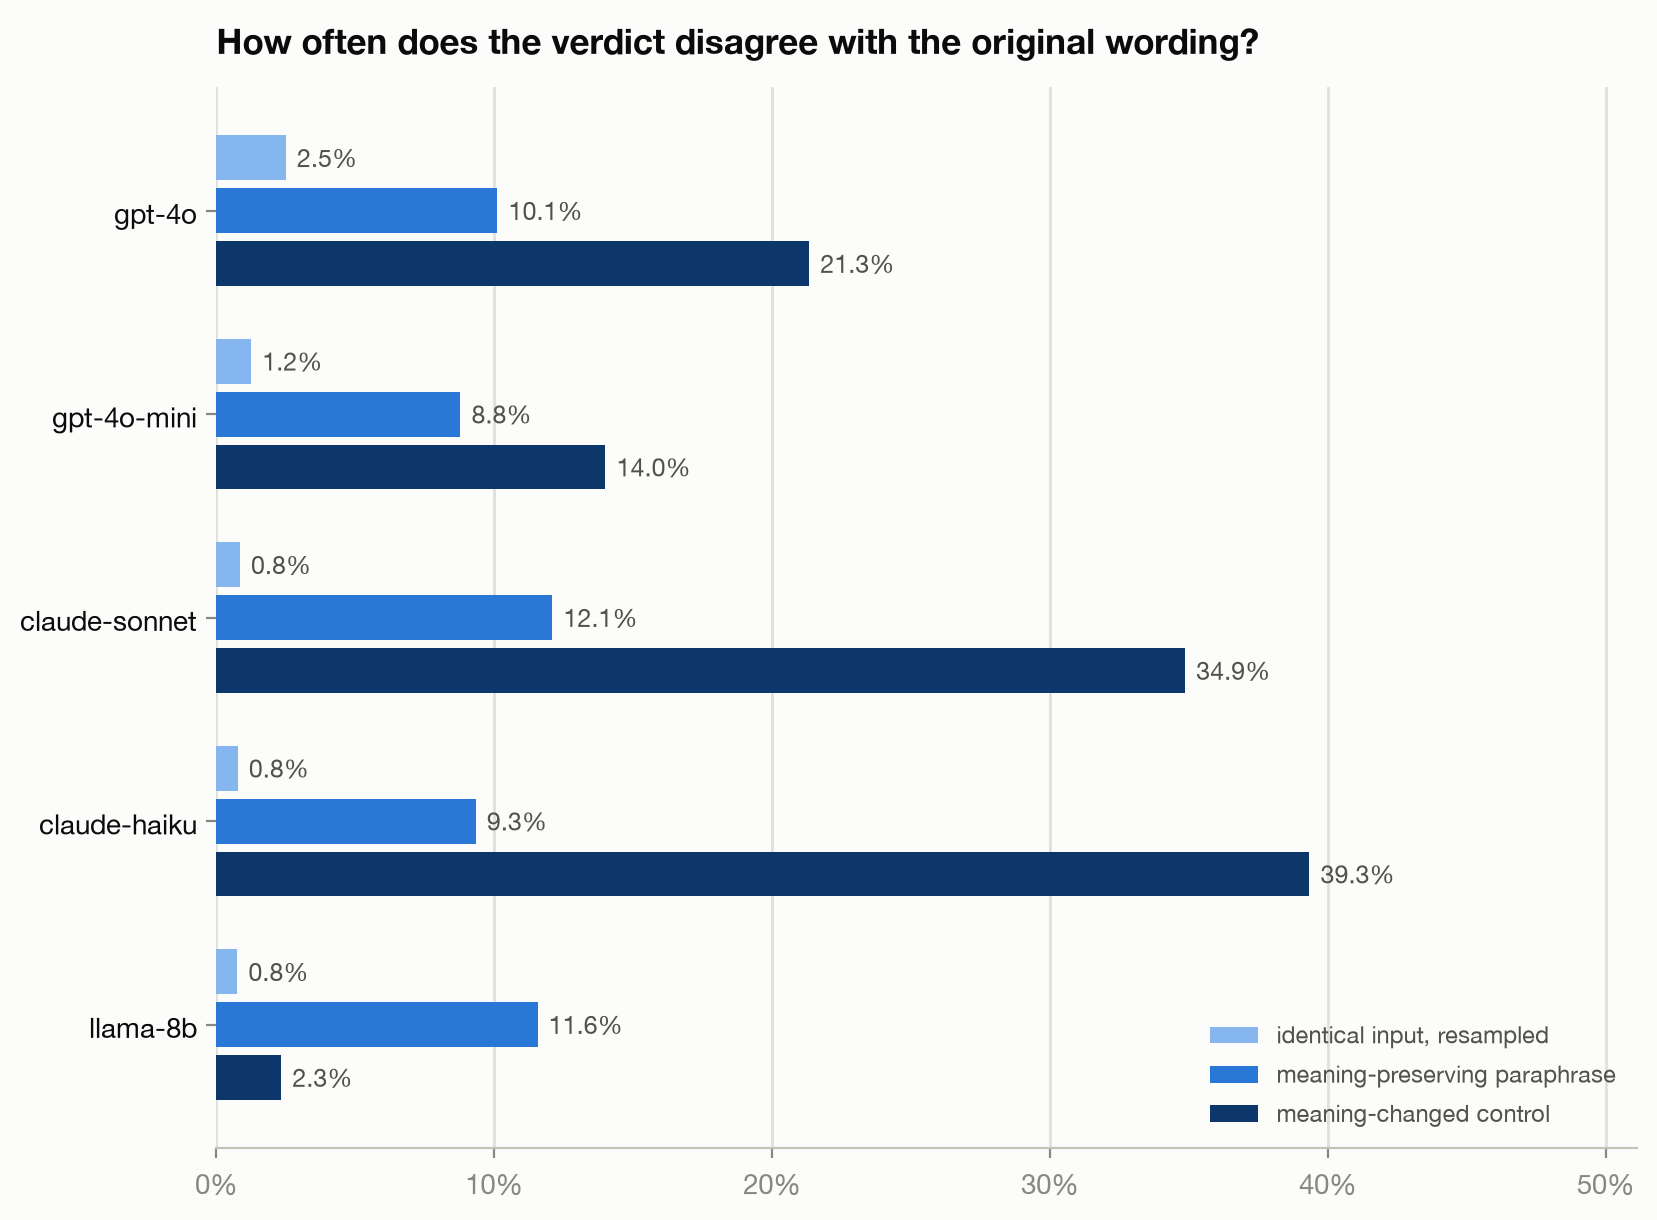
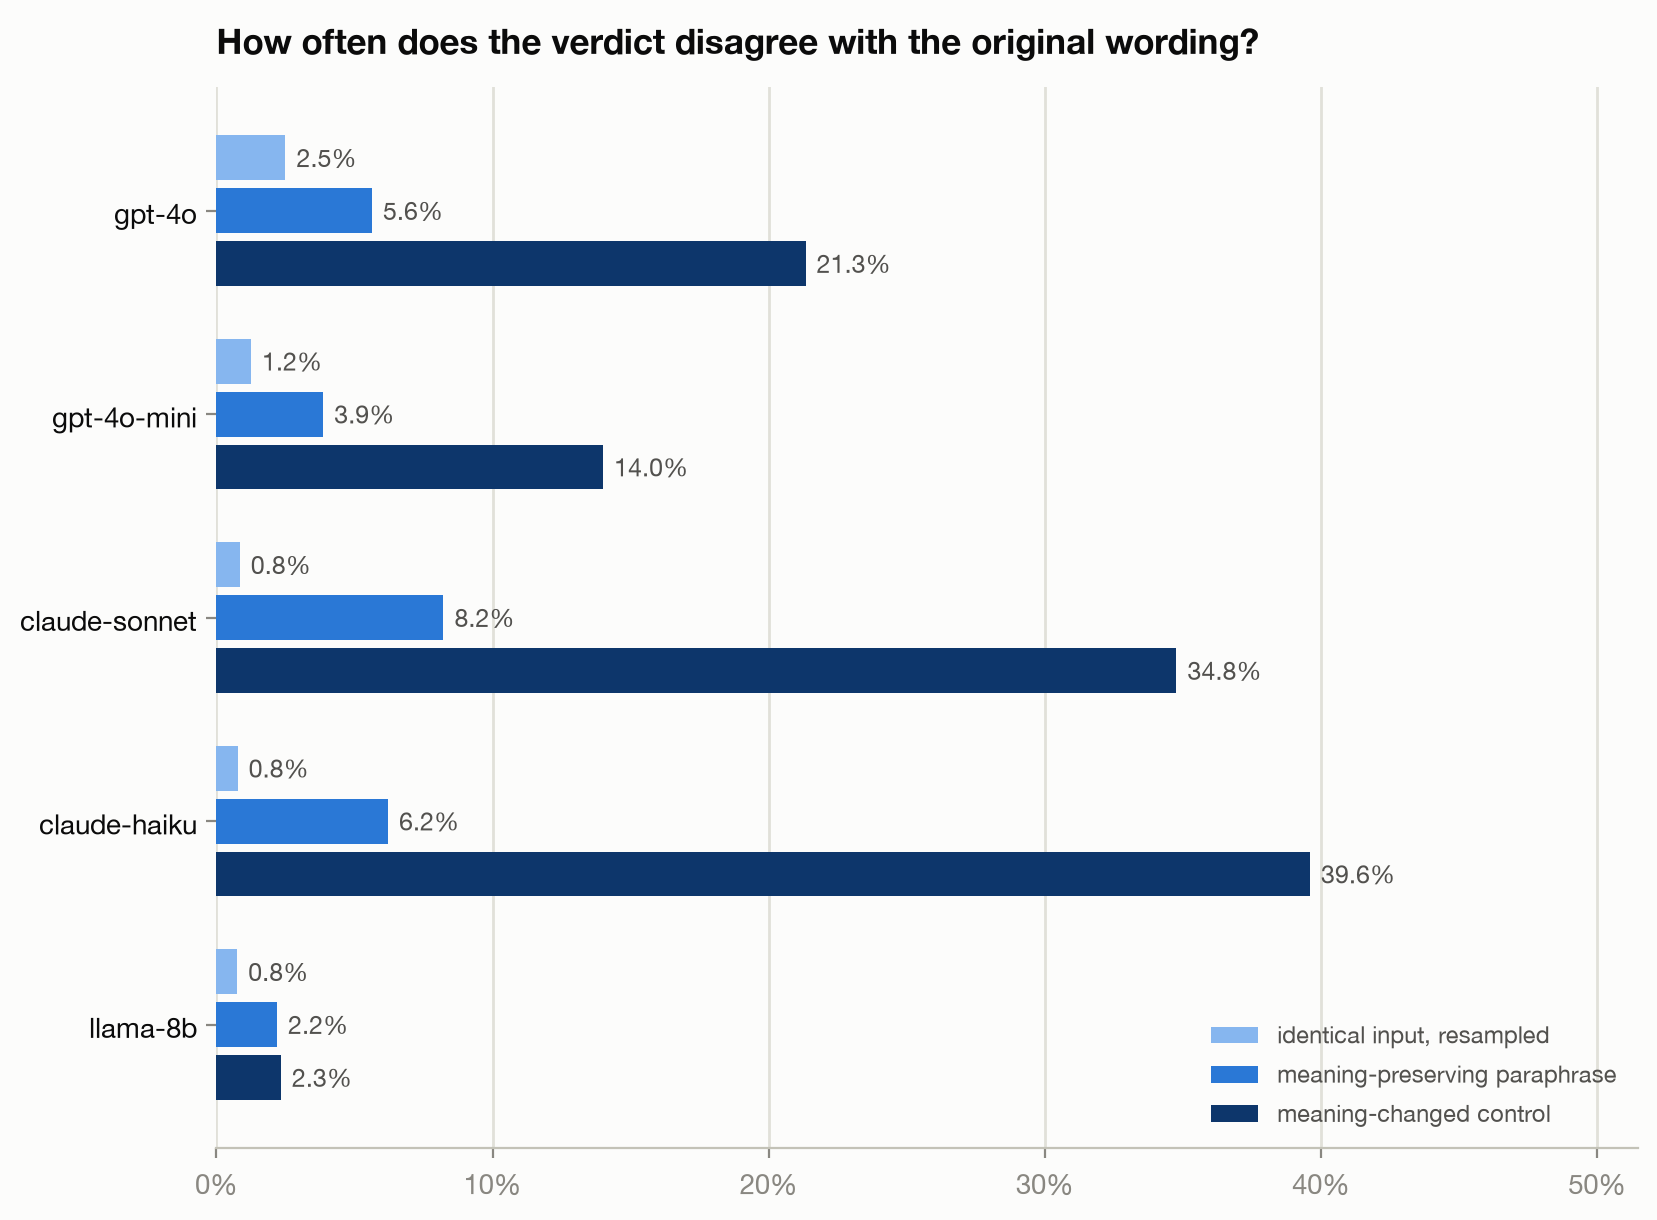
Fix all findings from second (cold, artifact-verifying) adversarial review
1. fig2 NaN bug: missing variant scores were counted as verdict flips,
   inflating per-variant paraphrase bars (llama showed 11.6% instead of
   2.2%, contradicting the insensitivity finding). Fixed and regenerated;
   figure now matches supplementary.json exactly.
2. Rubric claim corrected from the actual bootstrap: harsher for all five
   judges (-0.11 to -0.36) but validity gain is real for claude-sonnet
   (+0.060, CI excludes zero) - 'harsher, not more valid' was false for
   sonnet and cherry-picked the OpenAI shift range.
3. Symmetric multiplicity correction: Holm now applied to the TOST
   equivalence family too; corrected equivalence in 3/10 cells (was
   reported as 7/10 uncorrected next to Holm-corrected difference tests).
4. T=1 noise floor reported (10-24% flips - rivals wording sensitivity;
   headline multiplier explicitly scoped to T=0 operation) + new guidance:
   run judges at T=0.
5. ICC(2,1) 0.74-0.91 and per-item SD now reported with honest framing:
   flaky verdicts atop fairly stable scores near a hard threshold.
6. Stale variance numbers replaced (0.10-0.27 vs 0.003-0.054); 19x ->
   18.3x; E4 per-cell n=71-82 disclosed; sonnet form-type claim fixed;
   2-7x concentration consistent across README/report; spot-check
   reviewer vendor-family overlap disclosed in report, prereg, and
   limitations. Prereg addendum documents this review round.

diff --git a/analysis/supplementary.py b/analysis/supplementary.py
@@ -262,14 +262,20 @@ def main() -> None:
                           "ci": [float(ci[0]), float(ci[1])],
                           "dz": float(dz), "p_wilcoxon": float(p),
                           "p_tost_equiv": float(p_tost)})
-    # Holm correction over the 10 wilcoxon tests
-    ps = sorted(range(len(tests)), key=lambda i: tests[i]["p_wilcoxon"])
-    m = len(tests)
-    running_max = 0.0
-    for rank, i in enumerate(ps):
-        adj = min(1.0, (m - rank) * tests[i]["p_wilcoxon"])
-        running_max = max(running_max, adj)
-        tests[i]["p_holm"] = running_max
+    # Holm step-down applied SYMMETRICALLY: to the 10 difference tests and
+    # to the 10 equivalence tests (an uncorrected TOST family next to a
+    # corrected difference family would bias toward the null story).
+    def holm(key: str, out_key: str) -> None:
+        order = sorted(range(len(tests)), key=lambda i: tests[i][key])
+        m = len(tests)
+        running_max = 0.0
+        for rank, i in enumerate(order):
+            adj = min(1.0, (m - rank) * tests[i][key])
+            running_max = max(running_max, adj)
+            tests[i][out_key] = running_max
+
+    holm("p_wilcoxon", "p_holm")
+    holm("p_tost_equiv", "p_tost_holm")
     out["I_verbosity"] = tests
 
     (ROOT / "results" / "supplementary.json").write_text(

diff --git a/analysis/make_figures.py b/analysis/make_figures.py
@@ -123,10 +123,18 @@ def fig1_hero(e3: pd.DataFrame, judge: str = "gpt-4o") -> None:
 
 
 def flip_vs_original(wide: pd.DataFrame, cols: list[str]) -> float:
-    """Mean per-variant rate of verdict disagreement with the original."""
+    """Mean per-variant rate of verdict disagreement with the original.
+
+    Missing variant scores (parse failures) are excluded, not counted as
+    flips — mirrors supplementary.per_variant_flip.
+    """
     orig_pass = wide["original"] > PASS_THRESHOLD
-    rates = [((wide[c] > PASS_THRESHOLD) != orig_pass).mean()
-             for c in cols if c in wide]
+    rates = []
+    for c in cols:
+        if c not in wide:
+            continue
+        mask = wide[c].notna() & wide["original"].notna()
+        rates.append(((wide[c] > PASS_THRESHOLD) != orig_pass)[mask].mean())
     return float(np.mean(rates))
 
 

diff --git a/report/report.md b/report/report.md
@@ -13,18 +13,20 @@ three model families on FLASK items (n = 68–78 complete-matrix items per
 judge, drawn from a 150-item preregistered sample). **Rewording a criterion
 flips the pass/fail verdict on 14–25% of items** (Wilson 95% CIs roughly
 ±8–11 points; judge-vs-judge differences are not distinguishable at this n).
-Under matched-k definitions this is **4–19× each judge's identical-input
+Under matched-k definitions this is **4–18× each judge's identical-input
 resampling flip rate**. Flips concentrate on items near the decision
-threshold (29–40% vs 5–13% on clear verdicts, a 2–8× concentration):
+threshold (29–40% vs 4–13% on clear verdicts, a 2–7× concentration):
 criterion wording acts as a hidden decision threshold. Deliberately
 meaning-changed control criteria flip 3.6–6.4× more than true paraphrases
 for all four large judges — and expose that the apparently most "stable"
 judge (llama-3.1-8b, control/paraphrase ratio 1.1) is stable because it
 barely reads the criterion at all. In contrast, we observe **no verbosity
 bias that survives multiple-comparison correction in any family**:
-equivalence within ±0.25 points is established (TOST) in 7 of 10
-judge×condition cells, and the one nominally significant effect (gpt-4o
-favoring condensed responses) does not survive Holm correction. A
+with Holm correction applied symmetrically, equivalence within ±0.25
+points is established in 3 of 10 judge×condition cells (7 of 10
+uncorrected), the remaining cells inconclusive, and the one nominally
+significant effect (gpt-4o favoring condensed responses) does not survive
+correction. A
 scoring-mode ablation shows logprob-weighted expectation scoring barely
 moves GPT-4o-class judges (Δρ +0.01–0.02, CIs crossing zero) but transforms
 the small open judge (llama-8b: Δρ +0.23, CI [+0.17, +0.29]); contrary to
@@ -77,8 +79,9 @@ cosine ≥ 0.80, polarity lexicon, length ratio 0.5–2.0×); borderline
 candidates (cosine 0.70–0.80) are admitted via a bidirectional
 semantic-equivalence adjudication and tracked as a second tier, with all
 headline analyses run both ways (§3.3). The preregistered 10% spot-check
-(112 variants) was performed by an LLM reviewer (Claude, independent of
-the five judges under test) with per-row verdicts recorded in
+(112 variants) was performed by an LLM reviewer (a Claude model that is
+not one of the five judges, though it shares a vendor family with two of
+them — see §5) with per-row verdicts recorded in
 `data/spot_check_sample.jsonl`: 79/83 true paraphrases judged equivalent
 (4.8% failure), and all 29 controls in the sample correctly judged
 non-equivalent. The dominant failure (a "spatial"→"physical reasoning"
@@ -112,7 +115,7 @@ fraction of items whose verdict is not unanimous across k wordings
 | Any-of-7 paraphrase flip [95% CI] | 20.5% [13, 31] | 14.1% [8, 24] | 25.0% [16, 36] | 20.5% [13, 31] | 5.1% [2, 12] |
 | Any-of-5 paraphrase flip (matched k) | 16.2% | 10.8% | 20.6% | 16.9% | 4.6% |
 | Any-of-5 resample floor (T=0) | 4.0% | 2.0% | 1.1% | 1.0% | 1.0% |
-| **Matched-k ratio** | **4.1×** | **5.4×** | **19×** | **17×** | 4.6× |
+| **Matched-k ratio** | **4.1×** | **5.4×** | **18.3×** | **16.9×** | 4.6× |
 | Per-variant: paraphrase / floor | 5.6 / 2.5% | 3.9 / 1.2% | 8.2 / 0.8% | 6.2 / 0.8% | 2.2 / 0.8% |
 
 At these sample sizes the judge-vs-judge ordering is **not** established —
@@ -137,12 +140,21 @@ robustness. (Controls also shift raw scores 3–4× more than paraphrases for
 the large judges.)
 
 **Mechanism: wording is a hidden threshold.** Flip rates split 29–40% on
-near-threshold items (|score − 2.5| ≤ 1) vs 5–13% on clear verdicts — a
-2–8× concentration, consistent across families. When a response is
+near-threshold items (|score − 2.5| ≤ 1) vs 4–13% on clear verdicts — a
+2–7× concentration, consistent across families. When a response is
 borderline, *which paraphrase you happened to write* decides the eval.
 Casual-register rewrites are the most destabilizing single type for
 gpt-4o-mini (|Δ| 0.42) and claude-haiku (0.35); form changes
 (question/imperative) lead for gpt-4o and claude-sonnet.
+
+**The T=1 noise floor is a finding of its own.** All scoring in E1/E3/E4
+ran at temperature 0, so the T=0 floor is the matched baseline above. But
+the preregistered T=1 floor deserves its own line: identical-input
+resampling at T=1 flips 10–24% of verdicts (gpt-4o 19%, llama 24%) —
+rivaling paraphrase sensitivity itself. If you run a judge at nonzero
+temperature, sampling noise alone can dominate everything this study
+measures. (This also means the "4–18×" multiplier is specific to T=0
+operation; at T=1 wording sensitivity and sampling noise are comparable.)
 
 **Field order matters as much as wording (E2b, previously unreported):**
 mechanically reordering the prompt fields (Unit Test / Query / Response
@@ -152,21 +164,26 @@ sensitivity, echoing [2]'s response-level finding.
 
 ### 3.2 No detectable verbosity bias under criterion anchoring (E4)
 
-Per-judge paired drifts (variant − original), with 95% CIs, Holm-corrected
-Wilcoxon p over the 10-test family, and TOST equivalence vs a ±0.25-point
-bound (bound chosen post-hoc; the preregistered design detects ~0.16 at
-n=150, the realized n=82 detects ~0.22):
+Per-judge paired drifts (variant − original; per-cell n = 71–82 after the
+claim audit), with 95% CIs and Holm step-down correction applied
+symmetrically to BOTH ten-test families — the Wilcoxon difference tests
+and the TOST equivalence tests (±0.25-point bound, chosen post-hoc; the
+preregistered design detects ~0.16 at n=150, the realized n detects
+~0.22–0.24):
 
 | drift | gpt-4o | gpt-4o-mini | claude-sonnet | claude-haiku | llama-8b |
 |---|---|---|---|---|---|
-| Padded 1.84× | +0.01 [−0.20, +0.23]ᴱ | −0.13 [−0.40, +0.13] | −0.12 [−0.25, +0.01]ᴱ | −0.11 [−0.32, +0.10] | +0.09 [−0.04, +0.21]ᴱ |
-| Condensed 0.54× | +0.23 [+0.04, +0.43] | −0.05 [−0.18, +0.08]ᴱ | −0.11 [−0.24, +0.02]ᴱ | +0.05 [−0.17, +0.26]ᴱ | +0.00 [−0.11, +0.11]ᴱ |
+| Padded 1.84× | +0.01 [−0.20, +0.23] | −0.13 [−0.40, +0.13] | −0.12 [−0.25, +0.01] | −0.11 [−0.32, +0.10] | +0.09 [−0.04, +0.21]ᴱ |
+| Condensed 0.54× | +0.23 [+0.04, +0.43] | −0.05 [−0.18, +0.08]ᴱ | −0.11 [−0.24, +0.02] | +0.05 [−0.17, +0.26] | +0.00 [−0.11, +0.11]ᴱ |
 
-ᴱ = equivalence within ±0.25 established (TOST p < .05). **No drift in any
-cell survives Holm correction** (smallest corrected p = 0.28, gpt-4o
-condensed). The honest summary: we detect no verbosity bias in any family,
-with formal equivalence established in 7 of 10 cells and the remaining 3
-inconclusive rather than positive. The preregistered H2 (drift correlates
+ᴱ = equivalence within ±0.25 established after Holm correction (3 of 10
+cells; 7 of 10 before correction). **No drift in any cell survives Holm
+correction either** (smallest corrected p = 0.28, gpt-4o condensed). The
+honest summary: we detect no verbosity bias in any family, but with
+corrected equivalence established in only 3 cells, most cells are
+*inconclusive* — consistent with no bias, insufficient to prove its
+absence. A larger-n replication is the fix (the audit-surviving pool, not
+API cost, is the binding constraint). The preregistered H2 (drift correlates
 with log length ratio, direction family-specific) is **not supported**:
 elasticity slopes are −0.16 to +0.06, all p > 0.14. Because this is a
 cross-paper comparison (we did not run a holistic-judging arm), the claim
@@ -197,9 +214,14 @@ All numbers regenerable via `analysis/supplementary.py` →
   items, mean-of-5 sampling lifts llama-8b's ρ vs human from 0.12 to 0.26,
   less than half of what logprob weighting achieves (0.43); for the four
   large judges mean-of-5 changes ρ by <0.02.
-- **Variance decomposition:** wording variance exceeds the sampling floor
-  for every large judge (within-item wording variance 0.05–0.11 vs
-  sampling 0.001–0.01).
+- **Variance decomposition and ICC:** within-item wording variance is
+  0.10–0.27 (per-item SD ≈ 0.32–0.52 points) vs a T=0 sampling floor of
+  0.003–0.054. The preregistered ICC(2,1) across paraphrases is 0.74–0.91
+  (resampling: 0.97–0.99) — absolute scores move modestly under
+  rewording; verdicts flip as often as they do because so many items sit
+  near the 2.5 threshold. "Flaky verdicts atop fairly stable scores" is
+  the accurate summary, and it is exactly why margin reporting (§4)
+  matters more than the flip rate alone.
 
 ### 3.4 Anchors and scoring-mode ablations (E1)
 
@@ -219,9 +241,13 @@ together. Secondary findings:
   (CI [+0.169, +0.295]) for llama-8b, lifting it from unusable (ρ≈0.13)
   to usable (ρ≈0.43). It does not, however, reduce paraphrase flip rates
   for the large judges (§3.3).
-- **Rubrics make judges harsher, not more valid:** appending the FLASK
-  rubric+reference shifts scores −0.25 to −0.29 (CIs exclude zero) while
-  buying ~0 correlation gain (Δρ +0.001 / +0.034, CIs crossing zero).
+- **Rubrics make every judge harsher, but improve validity only for one:**
+  appending the FLASK rubric+reference shifts scores down for all five
+  judges (−0.11 to −0.36, CIs exclude zero) while the correlation gain is
+  ~zero for the OpenAI judges (Δρ +0.001 / +0.034, CIs crossing zero),
+  marginal for claude-haiku (+0.039 [−0.001, +0.080]), and real for
+  claude-sonnet (+0.060 [+0.027, +0.095]). "Rubrics don't help" is
+  judge-dependent; budget them for judges that use them.
 
 ## 4. Practical guidance
 
@@ -239,8 +265,11 @@ together. Secondary findings:
 4. **If you must use a small judge, use logprob scoring, not repeat
    sampling** — averaging 5 samples recovered less than half of the
    logprob benefit.
-5. **Don't pay for rubrics reflexively** — here they shifted the operating
-   point without improving agreement with humans.
+5. **Run judges at temperature 0.** At T=1, identical-input sampling noise
+   alone flips 10–24% of verdicts — as large as the wording effect this
+   study is about.
+6. **Don't pay for rubrics reflexively** — they made every judge harsher
+   but improved human agreement only for claude-sonnet here.
 
 ## 5. Limitations
 
@@ -257,8 +286,10 @@ sensitivity bounds it). Paraphrase generation, the borderline-gate
 adjudication, and the spot-check all use LLMs; the adjudicator
 (gpt-4o-mini) is itself a judge under test — a circularity affecting 96 of
 1,200 variants, bounded by the strict-only sensitivity analysis; the
-spot-check found a 4.8% paraphrase failure rate whose dominant mode was
-excluded in sensitivity analysis. E4's 82/150 audit survivors are a
+spot-check reviewer shares a vendor family with two judges (Claude), so
+the validity chain is LLM-on-LLM throughout; the spot-check found a 4.8%
+paraphrase failure rate whose dominant mode was excluded in sensitivity
+analysis. E4's 82/150 audit survivors are a
 selected subpopulation (responses paddable without adding claims). Human
 "gold" itself has ρ ≈ 0.56 single-annotator agreement. Single frozen
 prompt per judge: absolute levels could shift under prompt tuning, though

diff --git a/README.md b/README.md
@@ -23,11 +23,12 @@ results, practical guidance, limitations.
 
 - **Rewording a unit test flips its pass/fail verdict on 14–25% of items**
   (n=68–78 per judge; Wilson 95% CIs ±8–11 points, so the judge-vs-judge
-  ordering is not established) — **4–19× each judge's identical-input
-  resampling flip rate** under matched-k definitions.
+  ordering is not established) — **4–18× each judge's identical-input
+  resampling flip rate** under matched-k definitions (T=0; at T=1,
+  sampling noise alone rivals the wording effect).
 - **Criterion wording acts as a hidden decision threshold:** flips
-  concentrate ~3–7× on items whose scores sit near the pass/fail cut
-  (29–40%) vs clear verdicts (5–13%).
+  concentrate ~2–7× on items whose scores sit near the pass/fail cut
+  (29–40%) vs clear verdicts (4–13%).
 
   ![Flip rates vs noise floor and controls](https://raw.githubusercontent.com/ShivaSankeerth/flakyjudge/main/figures/fig2_flip_rates.png)
 - **"Stability" without validity is insensitivity — the controls catch it:**
@@ -38,10 +39,12 @@ results, practical guidance, limitations.
   ![Which rewordings move the score](https://raw.githubusercontent.com/ShivaSankeerth/flakyjudge/main/figures/fig3_mechanism.png)
 - **No detectable verbosity bias in any family:** content-matched 1.8×
   padding produces no drift that survives multiple-comparison correction;
-  formal equivalence within ±0.25 points holds in 7 of 10 judge×condition
-  cells (TOST). The length halo documented for holistic/pairwise judging
-  does not appear in this criterion-anchored setting (no within-study
-  holistic arm, so no causal claim).
+  with the same correction applied to the equivalence tests, formal
+  equivalence within ±0.25 points holds in 3 of 10 judge×condition cells
+  (7 of 10 uncorrected) — the rest are inconclusive, not positive. The
+  length halo documented for holistic/pairwise judging does not appear in
+  this criterion-anchored setting (no within-study holistic arm, so no
+  causal claim).
 - **Field order rivals wording:** mechanically reordering the prompt
   fields flips 7–14% of verdicts — format sensitivity on par with
   paraphrase sensitivity.
@@ -56,8 +59,9 @@ results, practical guidance, limitations.
   judges "beat") and also among the most paraphrase-sensitive — and the
   least format-compliant (~10% of calls ignore the bare-digit
   instruction; OpenAI judges: 0%).
-- **Rubrics make judges harsher, not more valid:** appending the FLASK
-  rubric+reference shifts scores −0.25 to −0.29 with ~no correlation gain.
+- **Rubrics make every judge harsher (−0.11 to −0.36) but improve
+  validity only for claude-sonnet** (Δρ +0.06, CI excludes zero; ~zero
+  for the OpenAI judges).
 
 ## What this is
 

diff --git a/PREREGISTRATION.md b/PREREGISTRATION.md
@@ -93,7 +93,8 @@ strict+adjudicated — as a sensitivity analysis.
 **Spot-check note (2026-07-16, superseded 2026-07-17):** an initial
 author sign-off was recorded without per-row verdicts. It was superseded
 by a full per-row review of all 112 sampled variants by an LLM reviewer
-(Claude, independent of the five judges under test), with verdicts,
+(a Claude model that is not one of the five judges under test, but shares
+a vendor family with two of them), with verdicts,
 reviewer, and date recorded in data/spot_check_sample.jsonl: 79/83 true
 paraphrases equivalent (4 non-equivalent, 4.8%), all 29 controls correctly
 non-equivalent. The dominant failure mode (a spatial->physical scope shift
@@ -162,9 +163,17 @@ Differences between this plan and the realized study, in one place:
    paraphrase), spot-check drift-exclusion sensitivity.
 6. Preregistered analyses initially missing from the report, now included
    (report section 3.3): two-tier and salvage sensitivity, logprob-vs-direct
-   flip rates, k-sample averaging, variance decomposition, field-reorder
-   results.
-7. Hypothesis outcomes: H1 supported (excess flips, threshold
+   flip rates, k-sample averaging, variance decomposition with ICC(2,1) and
+   per-item SD, field-reorder results, and the T=1 noise floor (section
+   3.1).
+7. A second independent adversarial review (2026-07-17) found and led to
+   fixes for: a NaN-handling bug in the figure-2 computation (missing
+   scores were counted as flips), a rubric-validity claim contradicted by
+   the study's own bootstrap for claude-sonnet, stale variance numbers,
+   asymmetric multiplicity correction (Holm now applied to both the
+   difference and equivalence test families), and the unreported T=1
+   floor. Corrected in the same commit as this note.
+8. Hypothesis outcomes: H1 supported (excess flips, threshold
    concentration). H2 not supported (no length-ratio correlation; no
    family-specific direction). H3 partially supported: logprob weighting
    improves human-correlation for the small judge only, does not reduce